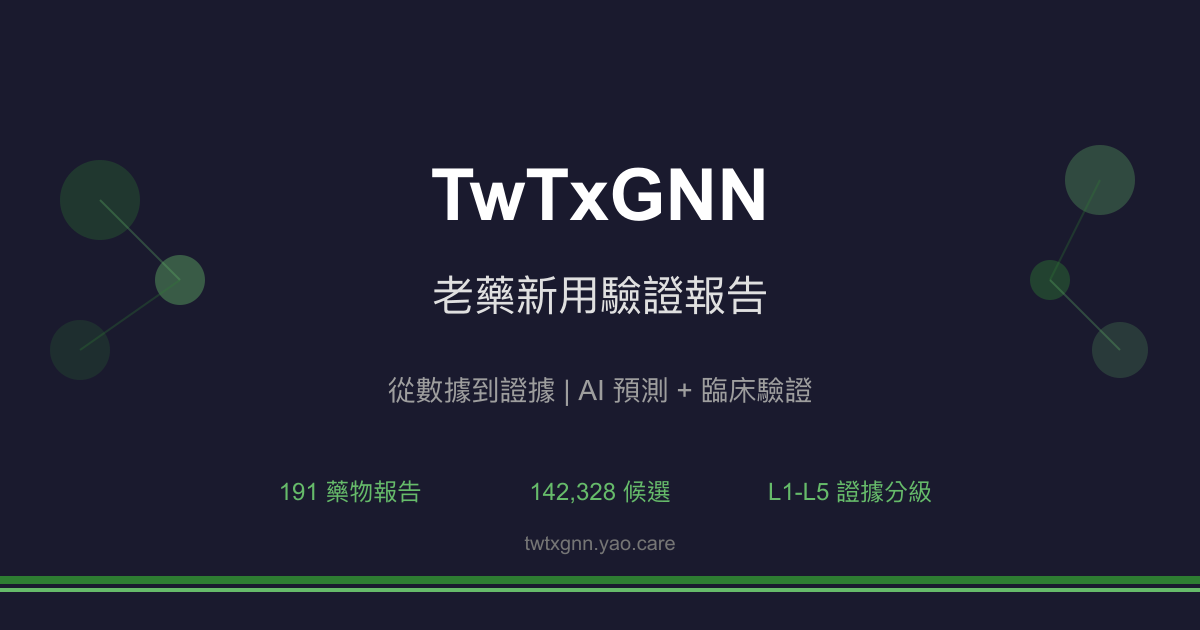
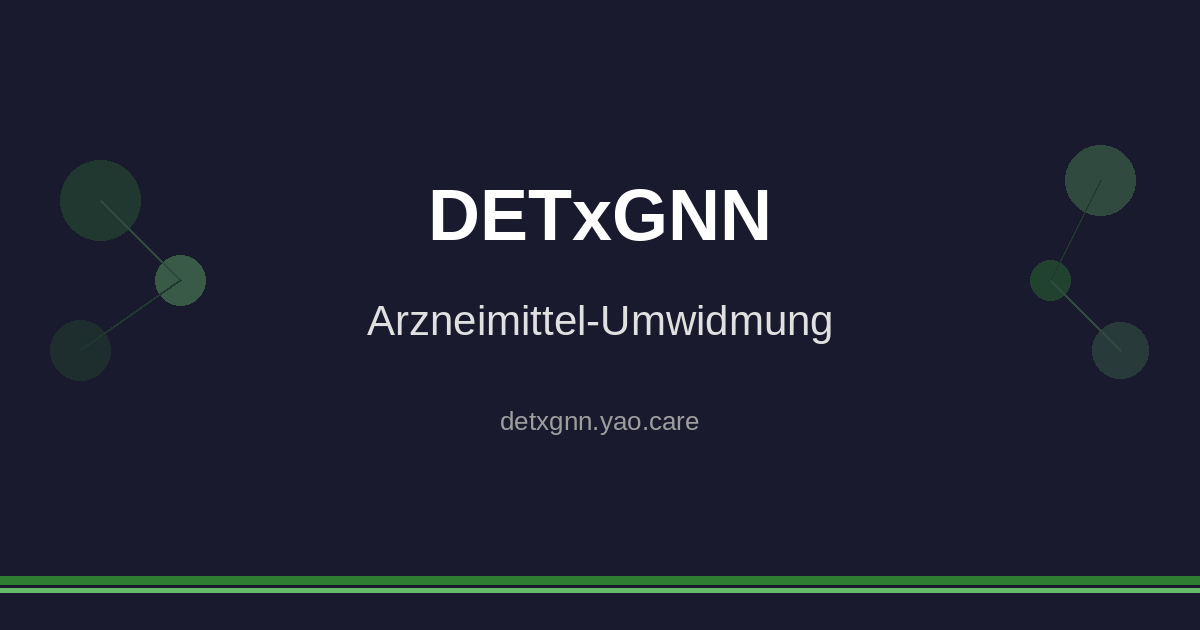
fix: 移除照抄 TwTxGNN 的內容（og 圖、分享按鈕）
- og-default.png／svg：原檔是 TwTxGNN 的圖（TwTxGNN、191 藥物報告、142,328 候選、twtxgnn.yao.care）。
  改由母 repo .claude/gen_og_image.py 產生本站圖：只放站名、網域、本站語言的一行副標（取自 _config.yml title），不放數字。
- assets/images/README.md：設計要求裡的「TwTxGNN」與標語改成本站實際內容，註明產生方式。
- _includes/social-share.html：X hashtag 與 mailto 主旨的 TwTxGNN → DETxGNN；推文與郵件內文原為中文「老藥新用驗證報告」，按鈕文字原為英文，改成本站語言。（此 include 目前沒有頁面引用，先修正以免日後啟用時帶出 Tw 字樣。）

Claude-Session: https://claude.ai/code/session_013aGXmRzC9hmsD5XtZ9FusM

diff --git a/docs/_includes/social-share.html b/docs/_includes/social-share.html
@@ -1,14 +1,14 @@
-<!-- 學術分享按鈕 -->
+<!-- Share buttons -->
 <div class="social-share" style="margin: 2rem 0; padding: 1.25rem; background: #f8f9fa; border-radius: 8px; border: 1px solid #e0e0e0;">
-  <strong style="display: block; margin-bottom: 0.75rem; color: #333;">Share this report:</strong>
+  <strong style="display: block; margin-bottom: 0.75rem; color: #333;">Diesen Bericht teilen:</strong>
   <div style="display: flex; gap: 0.5rem; flex-wrap: wrap;">
     <!-- Twitter/X -->
-    <a href="https://twitter.com/intent/tweet?text={{ page.title | url_encode }}%20%E8%80%81%E8%97%A5%E6%96%B0%E7%94%A8%E9%A9%97%E8%AD%89%E5%A0%B1%E5%91%8A&url={{ page.url | absolute_url | url_encode }}&hashtags=DrugRepurposing,TwTxGNN"
+    <a href="https://twitter.com/intent/tweet?text={{ page.title | url_encode }}%20Bericht%20zur%20Arzneimittel-Umwidmung&url={{ page.url | absolute_url | url_encode }}&hashtags=DrugRepurposing,DETxGNN"
        target="_blank" rel="noopener noreferrer"
        style="display: inline-flex; align-items: center; gap: 0.375rem; padding: 0.5rem 1rem; background: #000; color: white; text-decoration: none; border-radius: 6px; font-size: 0.9rem; font-weight: 500; transition: opacity 0.2s;"
        onmouseover="this.style.opacity='0.8'" onmouseout="this.style.opacity='1'">
       <svg width="16" height="16" fill="currentColor" viewBox="0 0 24 24"><path d="M18.244 2.25h3.308l-7.227 8.26 8.502 11.24H16.17l-5.214-6.817L4.99 21.75H1.68l7.73-8.835L1.254 2.25H8.08l4.713 6.231zm-1.161 17.52h1.833L7.084 4.126H5.117z"/></svg>
-      Share on X
+      Auf X teilen
     </a>
 
     <!-- LinkedIn -->
@@ -20,16 +20,16 @@
       LinkedIn
     </a>
 
-    <!-- 複製連結 -->
+    <!-- Copy link -->
     <button onclick="copyReportLink(this)"
             style="display: inline-flex; align-items: center; gap: 0.375rem; padding: 0.5rem 1rem; background: #6c757d; color: white; border: none; border-radius: 6px; cursor: pointer; font-size: 0.9rem; font-weight: 500; transition: all 0.2s;"
             onmouseover="this.style.background='#5a6268'" onmouseout="this.style.background='#6c757d'">
       <svg width="16" height="16" fill="currentColor" viewBox="0 0 24 24"><path d="M16 1H4c-1.1 0-2 .9-2 2v14h2V3h12V1zm3 4H8c-1.1 0-2 .9-2 2v14c0 1.1.9 2 2 2h11c1.1 0 2-.9 2-2V7c0-1.1-.9-2-2-2zm0 16H8V7h11v14z"/></svg>
-      <span>Copy link</span>
+      <span>Link kopieren</span>
     </button>
 
     <!-- Email -->
-    <a href="mailto:?subject={{ page.title | url_encode }}%20-%20TwTxGNN&body=%E6%8E%A8%E8%96%A6%E9%80%99%E4%BB%BD%E8%80%81%E8%97%A5%E6%96%B0%E7%94%A8%E9%A9%97%E8%AD%89%E5%A0%B1%E5%91%8A%EF%BC%9A%0A%0A{{ page.url | absolute_url | url_encode }}"
+    <a href="mailto:?subject={{ page.title | url_encode }}%20-%20DETxGNN&body=Empfehlung%20%E2%80%93%20Bericht%20zur%20Arzneimittel-Umwidmung%3A%0A%0A{{ page.url | absolute_url | url_encode }}"
        style="display: inline-flex; align-items: center; gap: 0.375rem; padding: 0.5rem 1rem; background: #EA4335; color: white; text-decoration: none; border-radius: 6px; font-size: 0.9rem; font-weight: 500; transition: opacity 0.2s;"
        onmouseover="this.style.opacity='0.8'" onmouseout="this.style.opacity='1'">
       <svg width="16" height="16" fill="currentColor" viewBox="0 0 24 24"><path d="M20 4H4c-1.1 0-1.99.9-1.99 2L2 18c0 1.1.9 2 2 2h16c1.1 0 2-.9 2-2V6c0-1.1-.9-2-2-2zm0 4l-8 5-8-5V6l8 5 8-5v2z"/></svg>
@@ -44,7 +44,7 @@ function copyReportLink(btn) {
   navigator.clipboard.writeText(url).then(() => {
     const span = btn.querySelector('span');
     const originalText = span.textContent;
-    span.textContent = 'Copied!';
+    span.textContent = 'Kopiert!';
     btn.style.background = '#28a745';
     setTimeout(() => {
       span.textContent = originalText;

diff --git a/docs/assets/images/README.md b/docs/assets/images/README.md
@@ -15,11 +15,15 @@ nav_exclude: true
 
 ### 設計要求
 
-1. 包含網站名稱「TwTxGNN」
-2. 包含標語「老藥新用，從數據到證據」
-3. 簡潔、專業風格
-4. 背景純色或簡單圖案
+1. 包含網站名稱「DETxGNN」與網域
+2. 包含該站語言的一行副標（取自 _config.yml 的 title）
+3. 不放藥物數、候選數等數字（會過期）
+4. 簡潔、專業風格
 5. 適合在社群媒體預覽顯示
+
+### 產生方式
+
+由 TxGNN 母 repo 的 `.claude/gen_og_image.py` 產生（同時輸出 og-default.svg）。
 
 ### 使用位置
 
